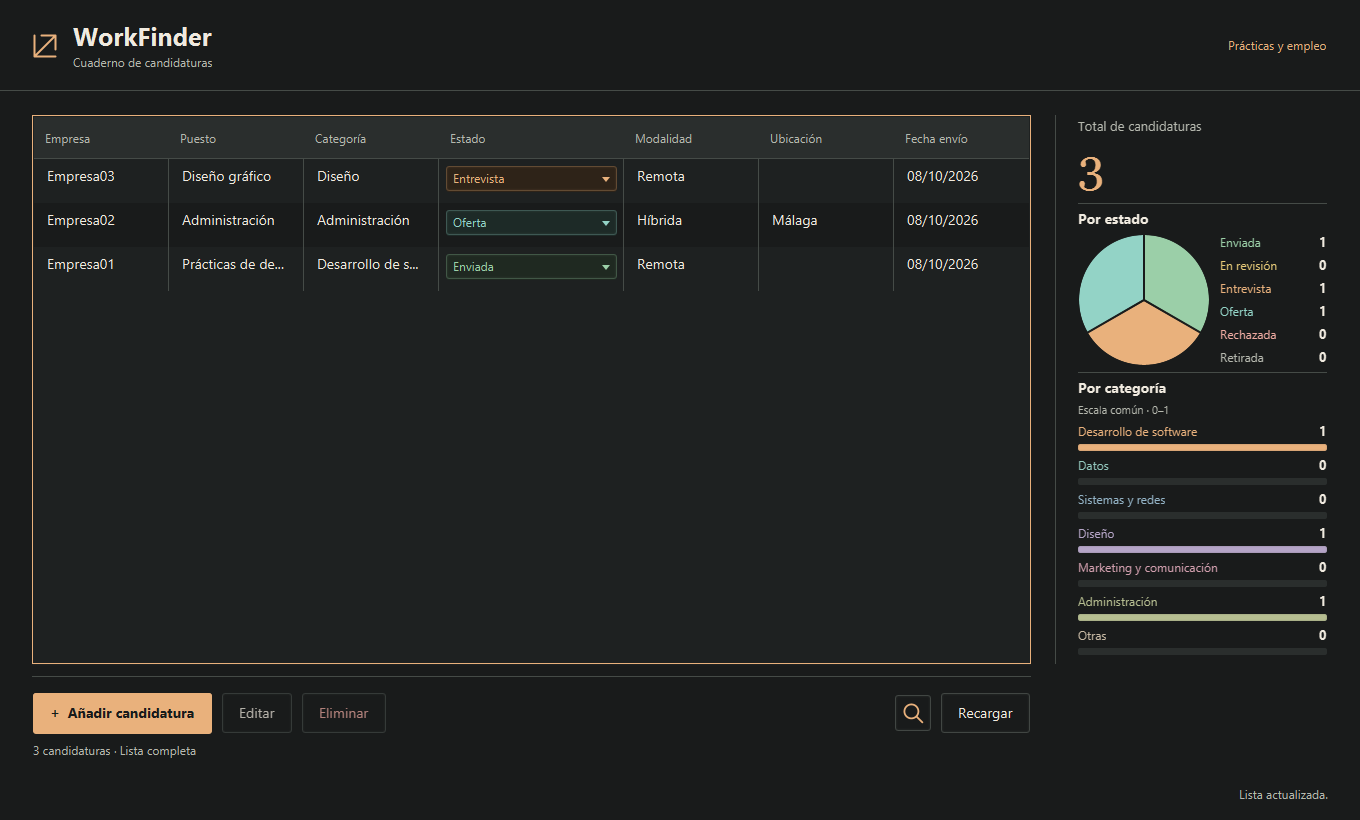
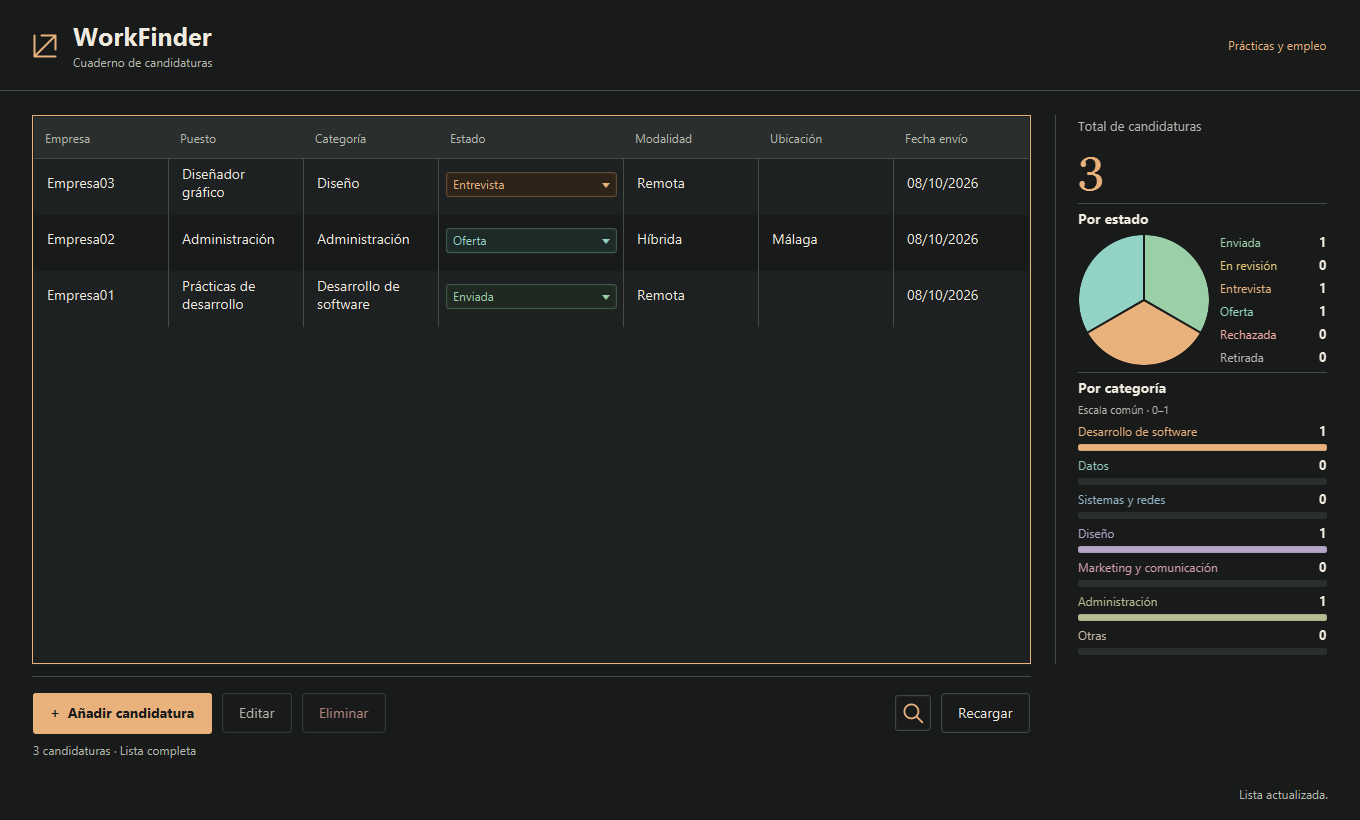
fix(ui): improve table readability and clean public documentation

diff --git a/src/main/resources/com/davidcuadralara/workfinder/css/workfinder.css b/src/main/resources/com/davidcuadralara/workfinder/css/workfinder.css
@@ -70,13 +70,13 @@
     -fx-font-weight: normal;
     -fx-text-fill: -wf-muted;
 }
-.table-row-cell { -fx-background-color: -wf-surface; -fx-cell-size: 44px; }
+.table-row-cell { -fx-background-color: -wf-surface; -fx-cell-size: 56px; }
 .table-row-cell:odd { -fx-background-color: -wf-background; }
 .table-row-cell:empty { -fx-background-color: -wf-surface; }
 .table-row-cell:filled:hover { -fx-background-color: -wf-raised; }
 .table-row-cell:filled:selected { -fx-background-color: -wf-selection; }
 .table-row-cell:filled:selected .table-cell { -fx-text-fill: -wf-text; }
-.table-cell { -fx-text-fill: -wf-text; -fx-padding: 10 12; -fx-alignment: CENTER_LEFT; }
+.table-cell { -fx-text-fill: -wf-text; -fx-padding: 8 12; -fx-alignment: CENTER_LEFT; }
 .table-row-cell:empty .table-cell { -fx-border-color: transparent; }
 .empty-state { -fx-padding: 36 28; }
 .empty-title { -fx-font-family: "Georgia"; -fx-font-size: 24px; }

diff --git a/src/main/java/com/davidcuadralara/workfinder/ui/MainView.java b/src/main/java/com/davidcuadralara/workfinder/ui/MainView.java
@@ -261,8 +261,8 @@ public final class MainView {
         table.setEditable(false);
         table.setColumnResizePolicy(TableView.CONSTRAINED_RESIZE_POLICY);
         table.getColumns().add(column("Empresa", 165, Candidatura::getEmpresa));
-        table.getColumns().add(column("Puesto", 190, Candidatura::getPuesto));
-        table.getColumns().add(column("Categoría", 150, c -> c.getCategoria().toString()));
+        table.getColumns().add(column("Puesto", 190, true, Candidatura::getPuesto));
+        table.getColumns().add(column("Categoría", 150, true, c -> c.getCategoria().toString()));
         TableColumn<Candidatura, EstadoCandidatura> stateColumn = new TableColumn<>("Estado");
         stateColumn.setPrefWidth(150);
         stateColumn.setMinWidth(130);
@@ -304,6 +304,10 @@ public final class MainView {
     }
 
     private TableColumn<Candidatura, String> column(String title, double width, Function<Candidatura, String> value) {
+        return column(title, width, false, value);
+    }
+
+    private TableColumn<Candidatura, String> column(String title, double width, boolean wrap, Function<Candidatura, String> value) {
         TableColumn<Candidatura, String> column = new TableColumn<>(title);
         column.setPrefWidth(width);
         column.setMinWidth(80);
@@ -313,6 +317,7 @@ public final class MainView {
         column.setCellFactory(ignored -> new TableCell<>() {
             @Override protected void updateItem(String item, boolean empty) {
                 super.updateItem(item, empty);
+                setWrapText(wrap);
                 setText(empty ? null : item);
                 setTooltip(empty || item == null || item.isBlank() ? null : new Tooltip(item));
             }

diff --git a/AGENTS.md b/AGENTS.md
@@ -1,17 +1,16 @@
 # Flujo Git de WorkFinder
 
-Repositorio remoto confirmado por David: `https://github.com/DCuadraLara/WorkFinder.git` (identidad `DCuadraLara/WorkFinder`). `origin` debe apuntar a este repositorio tanto para lectura como para escritura; se acepta su URL SSH equivalente si David configura ese acceso.
+Estas instrucciones se aplican a los colaboradores y agentes que trabajen en este repositorio.
+Remoto autorizado: `https://github.com/DCuadraLara/WorkFinder.git`; también se admite la URL SSH equivalente.
 
-Estas instrucciones se aplican al repositorio WorkFinder. David autoriza realizar commit y push al completar cada tarea de desarrollo que encargue, sin volver a pedir confirmación adicional para cada commit y push. Esta autorización no modifica los permisos ni las protecciones del entorno.
+Al completar cada tarea de desarrollo, realiza commit y push sin solicitar confirmación adicional. Esta autorización no modifica los permisos ni las protecciones del entorno.
 
-Al finalizar cada tarea de desarrollo:
+1. Comprueba la raíz con `git rev-parse --show-toplevel`, la rama con `git branch --show-current` y las URL de lectura y escritura de `origin`. Ambas deben corresponder al remoto autorizado. Si falta el remoto o HEAD está desacoplado, conserva el trabajo y comunica el problema; no cambies de rama ni publiques desde otro repositorio.
+2. Revisa el estado, los diffs y los archivos nuevos. Ejecuta `mvn verify`; si Maven no está instalado, usa `./mvnw verify` o `.\mvnw.cmd verify`. Corrige los fallos y repite la verificación antes de publicar.
+3. Añade únicamente los cambios de la tarea mediante rutas explícitas o selección de fragmentos. Conserva los cambios previos del usuario, incluidos los preparados en el índice. Excluye archivos generados, `target`, bases personales, configuración privada y credenciales. Revisa el diff preparado; no uses `git add .` ni `git add -A` sin acotar su alcance.
+4. Crea un commit descriptivo en inglés siguiendo Conventional Commits, como `fix(ui): improve table readability`. Si no hay cambios, no crees un commit vacío.
+5. Haz push de la rama actual a `origin` con una referencia explícita. Si falta seguimiento, configúralo para esa misma rama. No cambies de rama ni de remoto para publicar.
+6. Ante conflictos, rechazo del push o falta de autenticación, conserva el trabajo y comunica el problema. No uses force push, incluido `--force-with-lease`, ni sobrescribas el historial remoto. No descartes cambios, configures acceso global ni desactives protecciones, hooks o comprobaciones de seguridad y certificados. Limita cualquier configuración necesaria al repositorio.
+7. Resume los cambios, las comprobaciones y el resultado del commit y push. Incluye el identificador del commit y la rama; distingue un commit local de una publicación confirmada y explica lo que quede pendiente.
 
-1. Comprueba la raíz del repositorio con `git rev-parse --show-toplevel`, la rama actual con `git branch --show-current` y las URL de lectura y escritura de `origin`. Confirma que corresponden al repositorio WorkFinder de David, usando la URL que él haya indicado. Si falta el remoto, la identidad del repositorio no está confirmada o HEAD está desacoplado, conserva el trabajo y comunica el problema antes de publicar. No publiques desde otra carpeta ni cambies de rama por tu cuenta.
-2. Revisa el estado y los diffs, incluidos los archivos nuevos. Ejecuta `mvn verify` desde la raíz; si Maven no está instalado, utiliza el wrapper incluido: `./mvnw verify` o `.\mvnw.cmd verify` en Windows. Si la verificación falla, corrige los problemas y repítela antes de publicar. No presentes una verificación fallida como exitosa.
-3. Añade únicamente los cambios de la tarea, mediante rutas explícitas y, cuando haya cambios mezclados, selección de fragmentos. Conserva los cambios previos del usuario, incluidos los ya preparados en el índice; no los incluyas en tu commit ni los descartes. Excluye archivos generados, `target`, bases de datos personales, configuración privada y credenciales. Revisa el diff preparado para confirmar el contenido del commit. No uses `git add .` ni `git add -A` sin acotar su alcance a los cambios de la tarea.
-4. Crea un commit descriptivo en inglés siguiendo Conventional Commits, por ejemplo `feat(ui): animate the leading category bar`, `fix(repository): preserve data after a failed update` o `docs: document the Git publishing workflow`. Si no hay cambios de la tarea, no crees un commit vacío.
-5. Haz push de la rama actual a `origin`, sin confirmación adicional de intención. Usa una referencia explícita para publicar la rama comprobada; si no tiene seguimiento, configúralo para esa misma rama en `origin`. No cambies el destino a otra rama ni uses remotos no confirmados.
-6. Si hay conflictos, rechazo del push o falta de autenticación, conserva el trabajo y comunica el problema. No utilices force push (`--force`, `-f` o `--force-with-lease`), no sobrescribas el historial remoto y no descartes cambios para resolver el problema. No configures acceso global ni desactives protecciones del entorno, comprobaciones de seguridad, hooks o verificaciones de certificados. Cualquier configuración necesaria debe limitarse al repositorio y respetar la autorización de David.
-7. Al terminar, resume qué cambió, qué comprobaste y si el commit y el push se completaron. Si se creó un commit, incluye su identificador y la rama. Distingue un commit local de un push confirmado; si falla la publicación, explica qué queda pendiente.
-
-Ubicación actual del proyecto: `C:\Users\David\Documents\Proyectospersonales\WorkFinder`. Comprueba siempre la raíz real mediante Git; la carpeta de esta conversación puede ser distinta.
+Localiza siempre el proyecto mediante Git; no dependas de una ruta personal ni del directorio de la conversación.

diff --git a/README.md b/README.md
@@ -12,7 +12,7 @@ Aplicación de escritorio para organizar candidaturas a prácticas y empleo, des
 - Consultar el total de candidaturas, su distribución por estado y las barras por categoría.
 - Conservar los datos entre sesiones mediante SQLite, sin depender de un servidor externo.
 
-Cada fila representa **una candidatura**. Puedes registrar varias para una misma empresa o puesto; cada una conserva su identificador y sus datos.
+Cada fila representa **una candidatura**. Puedes registrar varias para una misma empresa o puesto; cada una conserva su identificador y sus datos. Las columnas de puesto y categoría admiten dos líneas para facilitar la lectura; los tooltips permiten consultar el contenido completo de las celdas.
 
 ## Capturas
 
